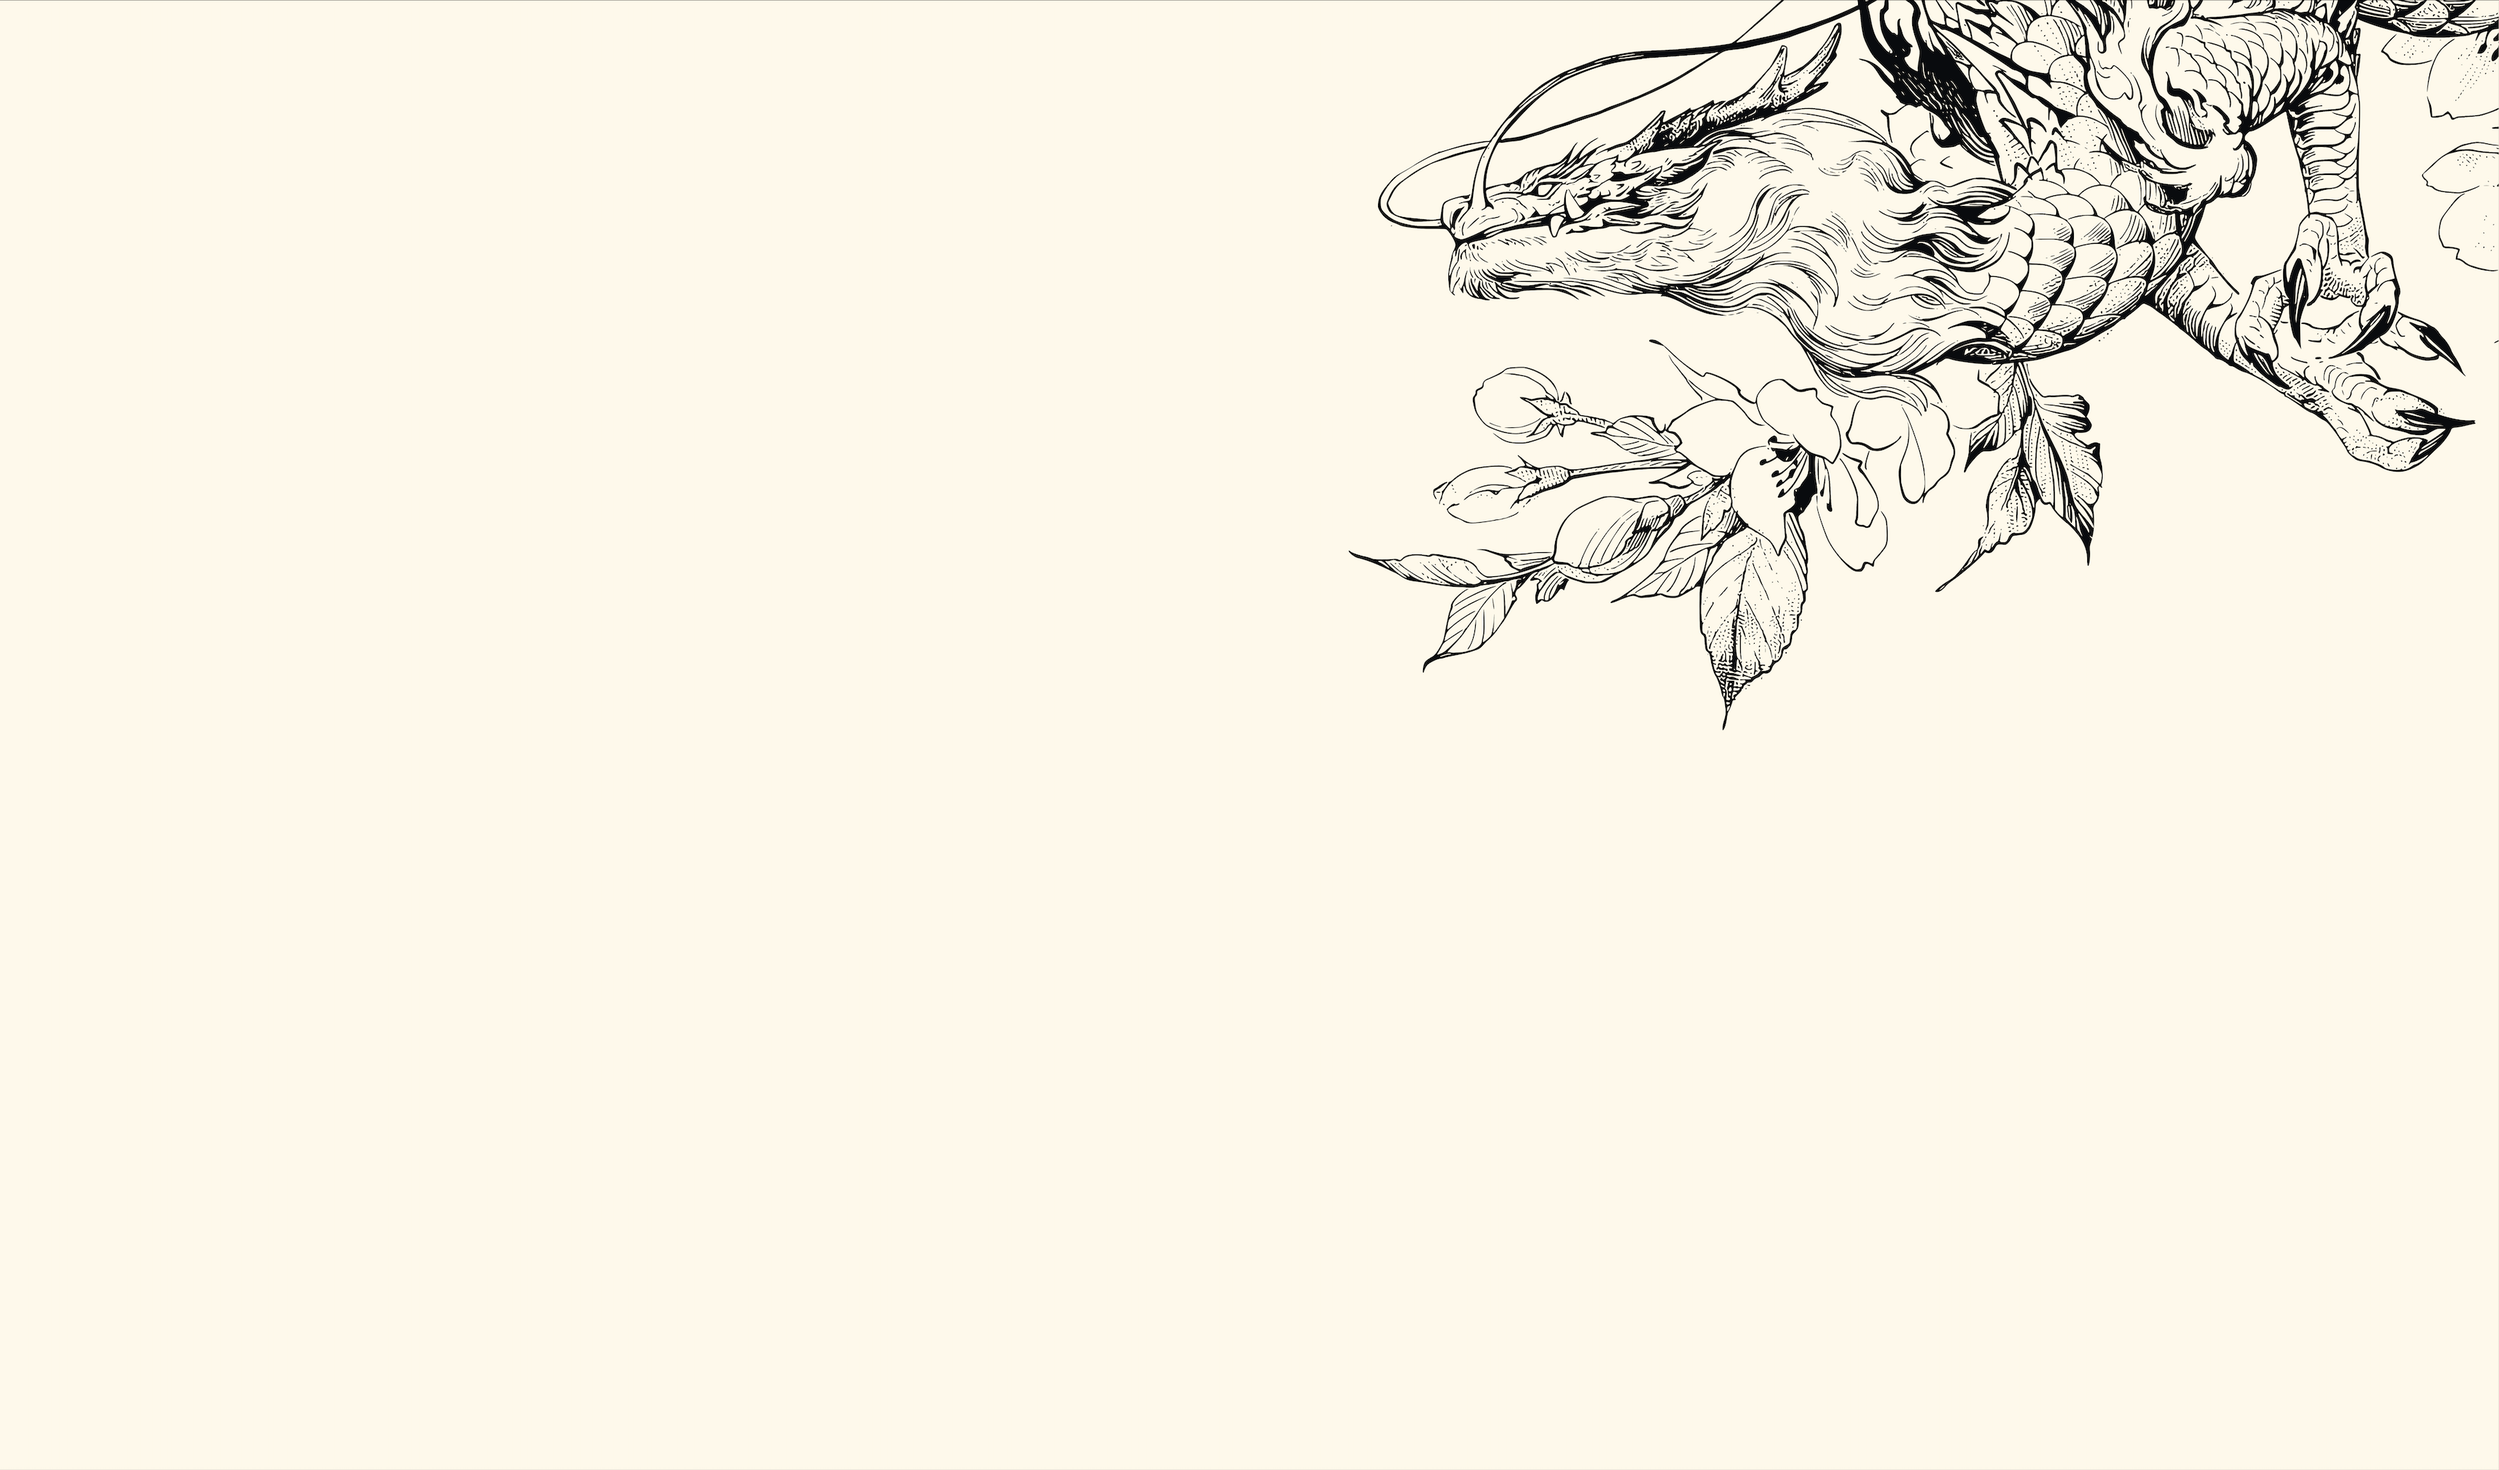
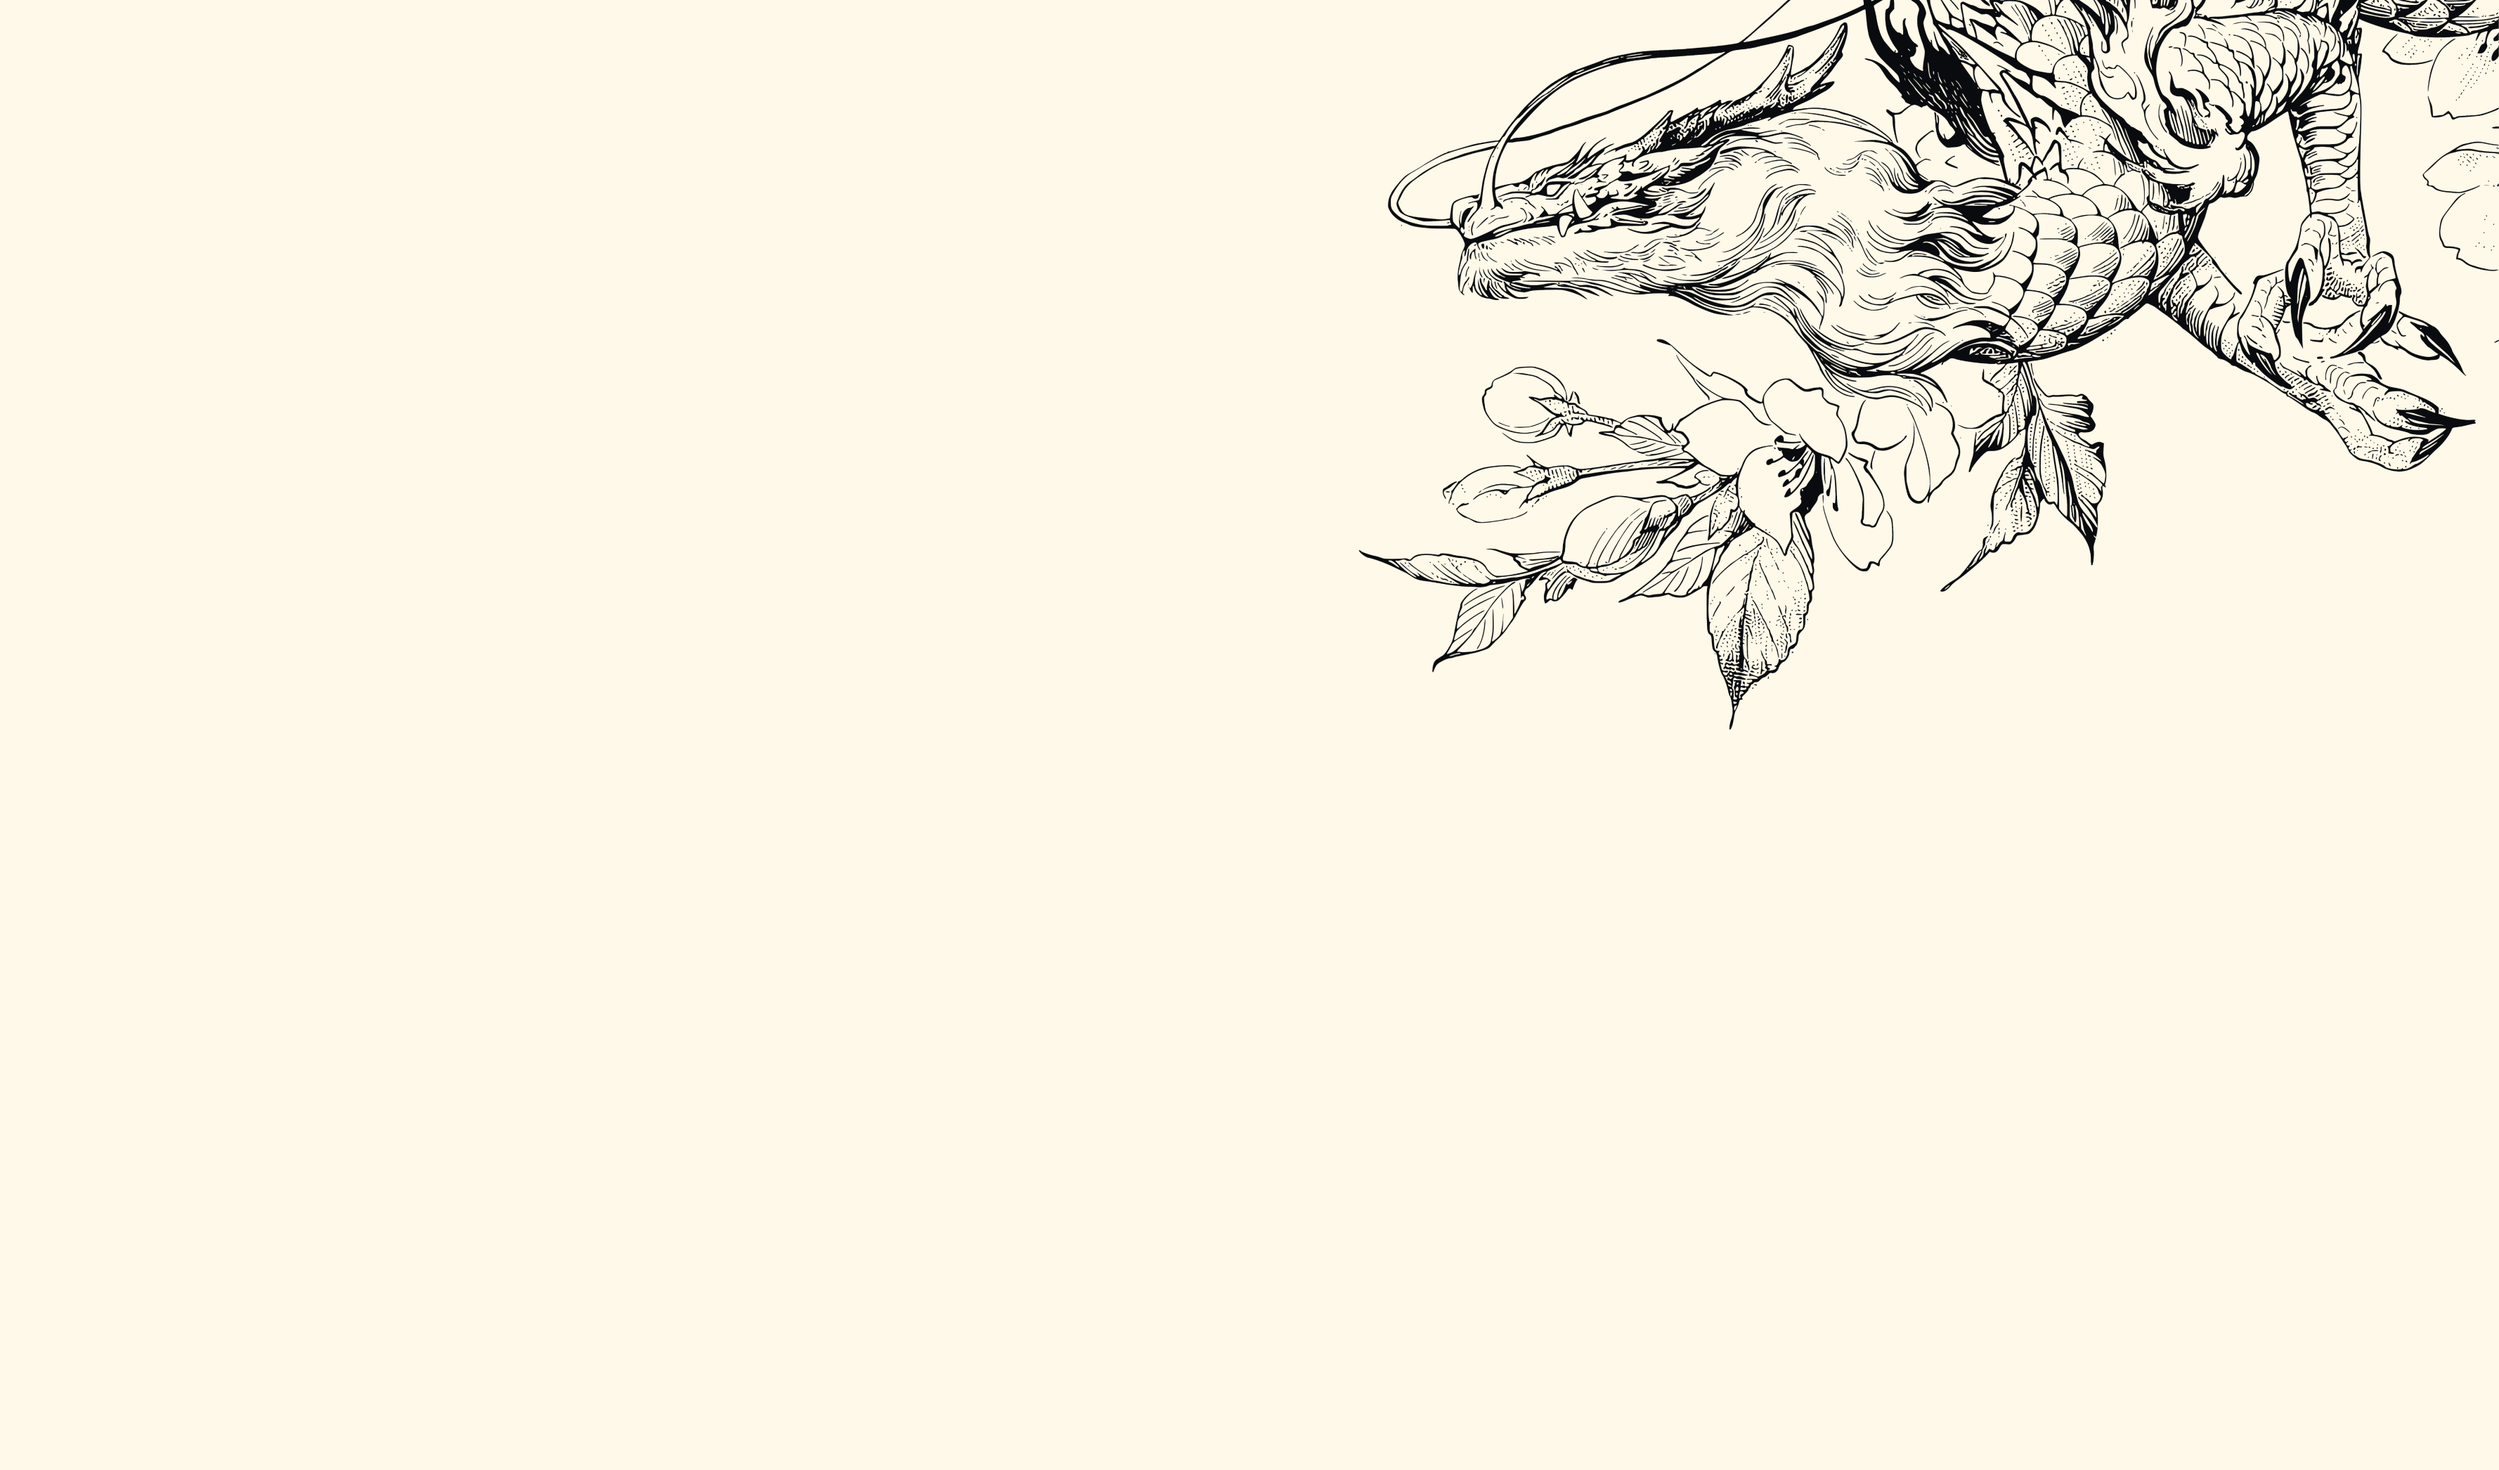
ajout de la partie experience
modif background dragon
modif flèche cover page

Changed region(s): [[0.5307, 0.0, 1.0, 0.4971], [0.9989, 0.0932, 1.0, 0.1243]]

diff --git a/src/App.css b/src/App.css
@@ -105,15 +105,18 @@ p.danger {
 
 /************ Coverpage Css ************/
 .bg-coverpage {
-  position: relative;
+/**  position: relative; **/
   height: 100vh;
   width: 100%;
   display: flex;
   align-items: center;
   justify-content: center;
+  background-color: rgb(18, 18, 18, 1);
+  background-image: url('./assets/img/coverpage-bg.png');
+  background-size: cover;
 }
 
-.bg-coverpage::before {
+/**.bg-coverpage::before {
   content: "";
   background-color: rgb(18, 18, 18, 1);
   background-image: url('./assets/img/coverpage-bg.png');
@@ -125,7 +128,7 @@ p.danger {
   left: 0px;
   opacity: 0.75;
   z-index: -1;
-}
+} ****/
 
 /************ Navbar Css ************/
 nav.navbar {
@@ -361,7 +364,7 @@ nav.navbar .navbar-toggler[aria-expanded="true"] .navbar-toggler-icon {
 
 /************ Banner Css ************/
 
-.banner::before {
+/****.banner::before {
   content: "";
   background-image: url('./assets/img/banner-bg.png');
   background-size: cover;
@@ -371,15 +374,17 @@ nav.navbar .navbar-toggler[aria-expanded="true"] .navbar-toggler-icon {
   bottom: 0px;
   left: 0px;
   z-index: -1;
-}
+} **/
 
 .banner {
-  position: relative;
   height: 100vh;
-  width: 100%;
   display: flex;
   align-items: center;
   justify-content: center;
+  background-image: url('./assets/img/banner-bg.png');
+  background-size: cover;
+  background-position: center bottom;
+  background-repeat: no-repeat;
 }
 
 
@@ -458,7 +463,7 @@ nav.navbar .navbar-toggler[aria-expanded="true"] .navbar-toggler-icon {
 /************ Me Css ************/
 
 .Me {
-  position: relative;
+ /** position: relative; **/
   height: 100vh;
   width: 100%;
   display: flex;
@@ -466,9 +471,13 @@ nav.navbar .navbar-toggler[aria-expanded="true"] .navbar-toggler-icon {
   align-items: center;
   justify-content: center;
   color:#121212;
+  background-image: url('./assets/img/me-bg.png');
+  background-size: cover;
+  background-position: center top;
+  background-repeat: no-repeat;
 }
 
-.Me::before {
+/**.Me::before {
   content: "";
   background-image: url('./assets/img/me-bg.png');
   background-size: cover;
@@ -478,7 +487,7 @@ nav.navbar .navbar-toggler[aria-expanded="true"] .navbar-toggler-icon {
   bottom: 0px;
   left: 0px;
   z-index: -1;
-}
+} **/
 
 .Me h1{
   font-size: 3.7vw;
@@ -496,4 +505,56 @@ nav.navbar .navbar-toggler[aria-expanded="true"] .navbar-toggler-icon {
 
 .pt-7 {
   padding-top: 5rem !important;
+}
+
+.pb-7 {
+  padding-bottom: 5rem !important;
+}
+
+/************ Experience Css ************/
+
+.Experience {
+  position: relative;
+  height: 100vh;
+  width: 100%;
+  display: flex;
+  flex-direction: column;
+  align-items: center;
+  justify-content: center;
+}
+
+.Experience::before {
+  content: "";
+  background-image: url('./assets/img/bg-experience.png');
+  background-size: cover;
+  position: absolute;
+  top: 0px;
+  right: 0px;
+  bottom: 0px;
+  left: 0px;
+  z-index: -1;
+}
+
+.bg-col-expe {
+  background: url('./assets/img/bg-col-expe.png') no-repeat center ;
+  background-size: cover;
+  height: 75vh;
+}
+
+.Experience .me-border-top {
+  border-top-width: 5px;
+  border-top-style: solid;
+  border-top-color: #BF3947;
+  width: 191px;
+}
+
+.Experience .me-border-bottom {
+  border-bottom-width: 5px;
+  border-bottom-style: solid;
+  border-bottom-color: #BF3947;
+}
+
+.bg-black {
+  background-color: #090B0E;
+  height: 75vh;
 }

diff --git a/src/components/Experience.js b/src/components/Experience.js
@@ -1,0 +1,36 @@
+import { Col, Container, Row } from "react-bootstrap";
+
+export const Experience = () => {
+    return (
+        <section className="Experience" id="experience">
+            <Container>
+                    <Row className="align-items-center">
+                        <Col xs={12} md={7} xl={7} className="bg-col-expe d-flex flex-column align-items-center justify-content-between pt-7">
+                            <h1>Clean, Up-to-date & Modern Design</h1>
+                            <Row className="align-items-center w-100 pb-7">
+                                <Col xs={12} md={4} xl={4} className="d-flex flex-column align-items-center pt-4">
+                                    <p style={{fontSize: '50px', fontWeight: '500'}}>9</p>
+                                    <p>Years on the Market</p>
+                                </Col>
+                                <Col xs={12} md={4} xl={4} className="d-flex flex-column align-items-center me-border-top pt-4">
+                                    <p style={{fontSize: '50px', fontWeight: '500'}}>4k</p>
+                                    <p>Happy Customers</p>
+                                </Col>
+                                <Col xs={12} md={4} xl={4} className="d-flex flex-column align-items-center pt-4">
+                                    <p style={{fontSize: '50px', fontWeight: '500'}}>5</p>
+                                    <p>Star Support</p>
+                                </Col>
+                            </Row>
+                        </Col>
+                        <Col xs={12} md={5} xl={5} className="bg-black d-flex flex-column justify-content-between align-items-center">
+                            <div>
+                                <p className="pt-7 px-5 pb-3" style={{fontSize: '20px'}}>The Scroller theme is recognized thanks to the clean, readable and well-organized design and layout since 2013!</p>
+                                <div className="me-border-top ms-5"> </div>
+                            </div>
+                            <h1 className="pb-7 px-5">Modular Pages & Responsive Layout</h1>
+                        </Col>
+                    </Row>
+            </Container>
+        </section>
+    )
+}

diff --git a/src/components/NavBar.js b/src/components/NavBar.js
@@ -26,7 +26,7 @@ export const NavBar = () => {
 
     return (
         <Navbar expand="lg" id="coverpage" style={{ position: scrolled ? 'sticky' : 'relative' }}>
-            <a href="#MainNav" className="arrow"></a>
+            <a href="#nav-main" className="arrow"></a>
             <Navbar.Toggle aria-controls="nav-main" />
             <Navbar.Collapse id="nav-main">
                 <Container className="d-flex justify-content-between">

diff --git a/src/App.js b/src/App.js
@@ -3,6 +3,7 @@ import { Banner } from './components/Banner';
 import { Me } from './components/Me';
 import { NavBar } from './components/NavBar';
 import { CoverPage } from './components/CoverPage';
+import { Experience } from './components/Experience';
 
 function App() {
   return (
@@ -11,6 +12,7 @@ function App() {
       <NavBar />
       <Banner />
       <Me />
+      <Experience />
     </div>
   );
 }
